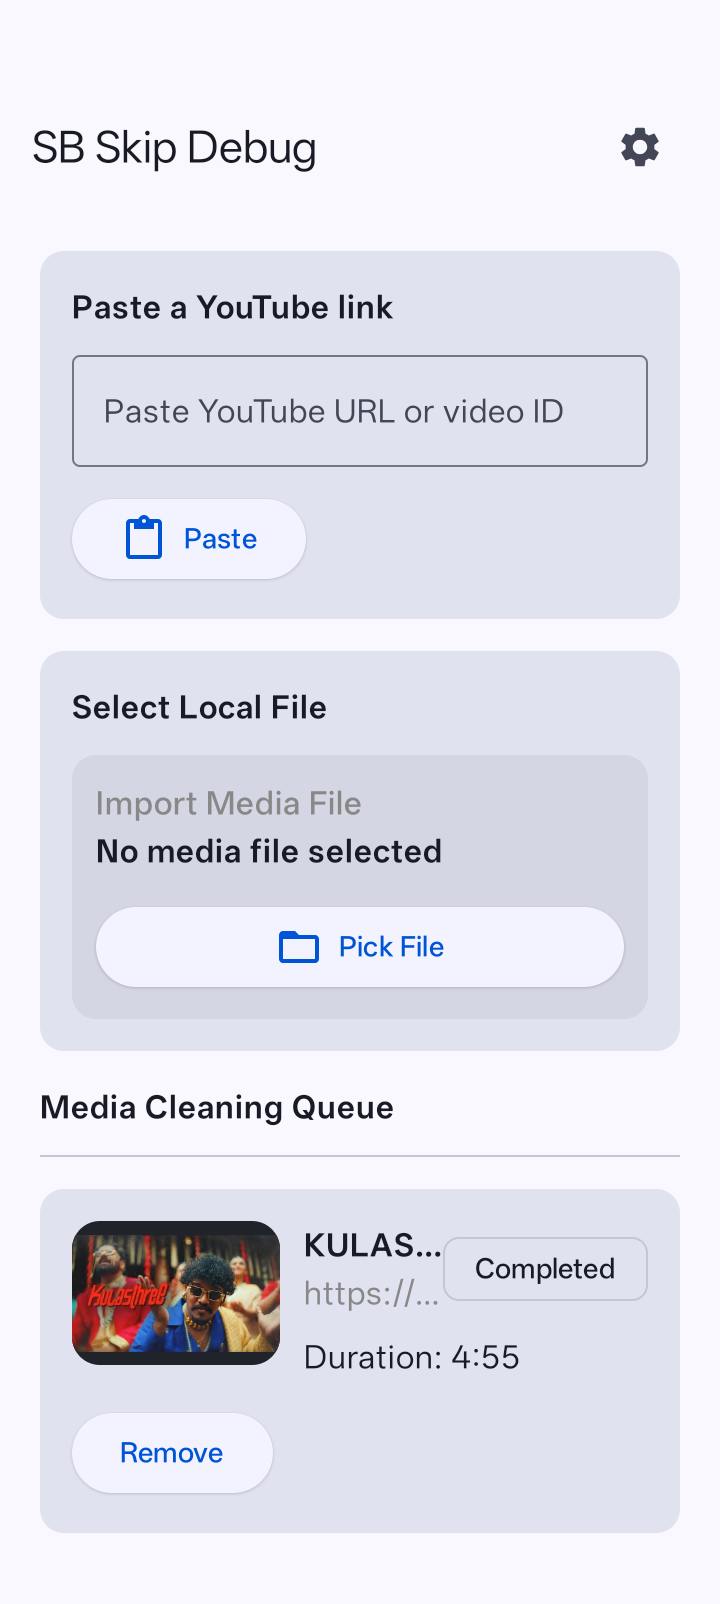
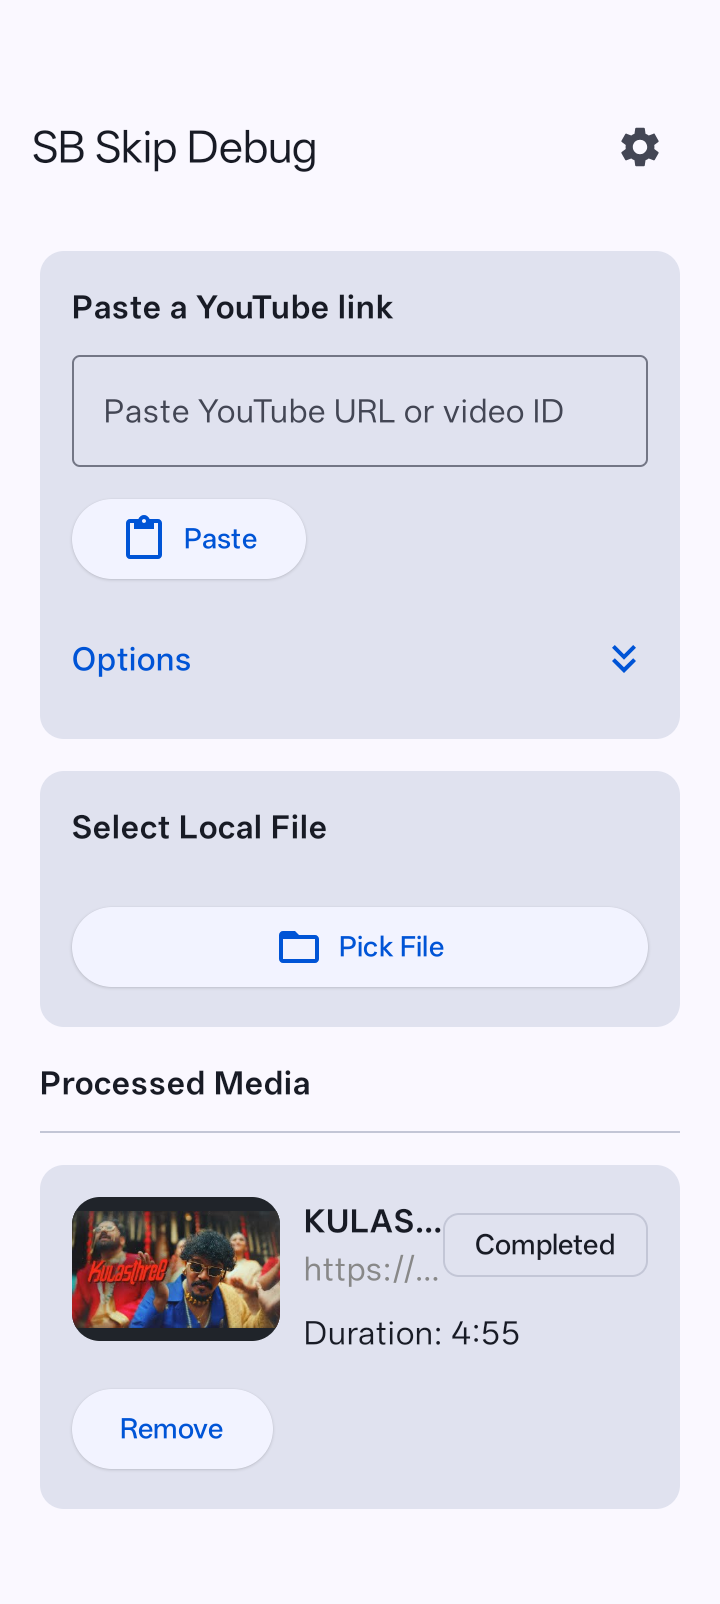
chore: bump version to v1.9.0

Changed region(s): [[0.0611, 0.5611, 0.9472, 0.9663], [0.0306, 0.3741, 0.9472, 0.5611]]

diff --git a/CHANGELOG.md b/CHANGELOG.md
@@ -4,6 +4,50 @@ All notable changes to this project will be documented in this file.
 
 ---
 
+## [1.9.0] - 2026-08-15
+
+### Fixed
+
+- 8a26260  fix: update MainScreen to conditionally display section header based on active and completed items
+
+### Added
+
+- 9f43416  feat: add CI workflow for automated testing and builds
+- b319077  feat: implement countdown for auto-detect in PendingDownloadCard and add "Search now" functionality
+- 40b6233  feat: add outputDurationSeconds to DownloadQueueEntity and related methods
+- c705a60  feat: implement playlist download functionality with video management and UI components
+- 6f33611  feat: add updateLocalFileUri method to QueueRepository and implement in MainViewModel for URI updates
+- f870657  feat: add download functionality for queue items with retry option in ErrorDetailsDialog
+- 504b428  feat: update MainScreen to separate active and completed queue items, add processed media section
+- 8419b1a  feat: improve download timing logic in MainViewModel for better accuracy
+
+### Style
+
+- fe8d430  style: simplify selected file display logic in MainScreen
+
+### Refactor
+
+- 13124c0  refactor: streamline toast message handling in MainViewModel
+- 0bb7593  refactor: remove DownloadOptionsDialog and streamline download options handling in MainScreen and MainViewModel
+- b5e3ce4  refactor: update download progress indicators in PlaylistDownloadCard for improved clarity and performance
+
+### Tests
+
+- bfcc901  test: add testDisplayDuration method to validate duration display logic in DownloadQueueItem
+- e0e6c10  test: add RealPlaylistTest and YouTubePlaylistFetcherTest for playlist functionality
+- 223f88b  test: add unit tests for ErrorDetailsDialog and MainViewModel functionality
+- 06a3ad3  test: add unit tests for DefaultQueueRepository and enhance MainViewModelTest
+
+### Maintenance
+
+- 12577c0  chore: bump org.jetbrains.kotlinx:kotlinx-serialization-json in /app
+- 6f6aec9  chore: bump androidx.test.ext:junit from 1.1.5 to 1.3.0
+- 6eb50eb  chore: downgrade kotlinx-serialization-json to version 1.7.3
+
+### Other
+
+- 470d500  translate: add translations for turkish
+
 ## [1.8.1] - 2026-08-03
 
 ### Fixed
